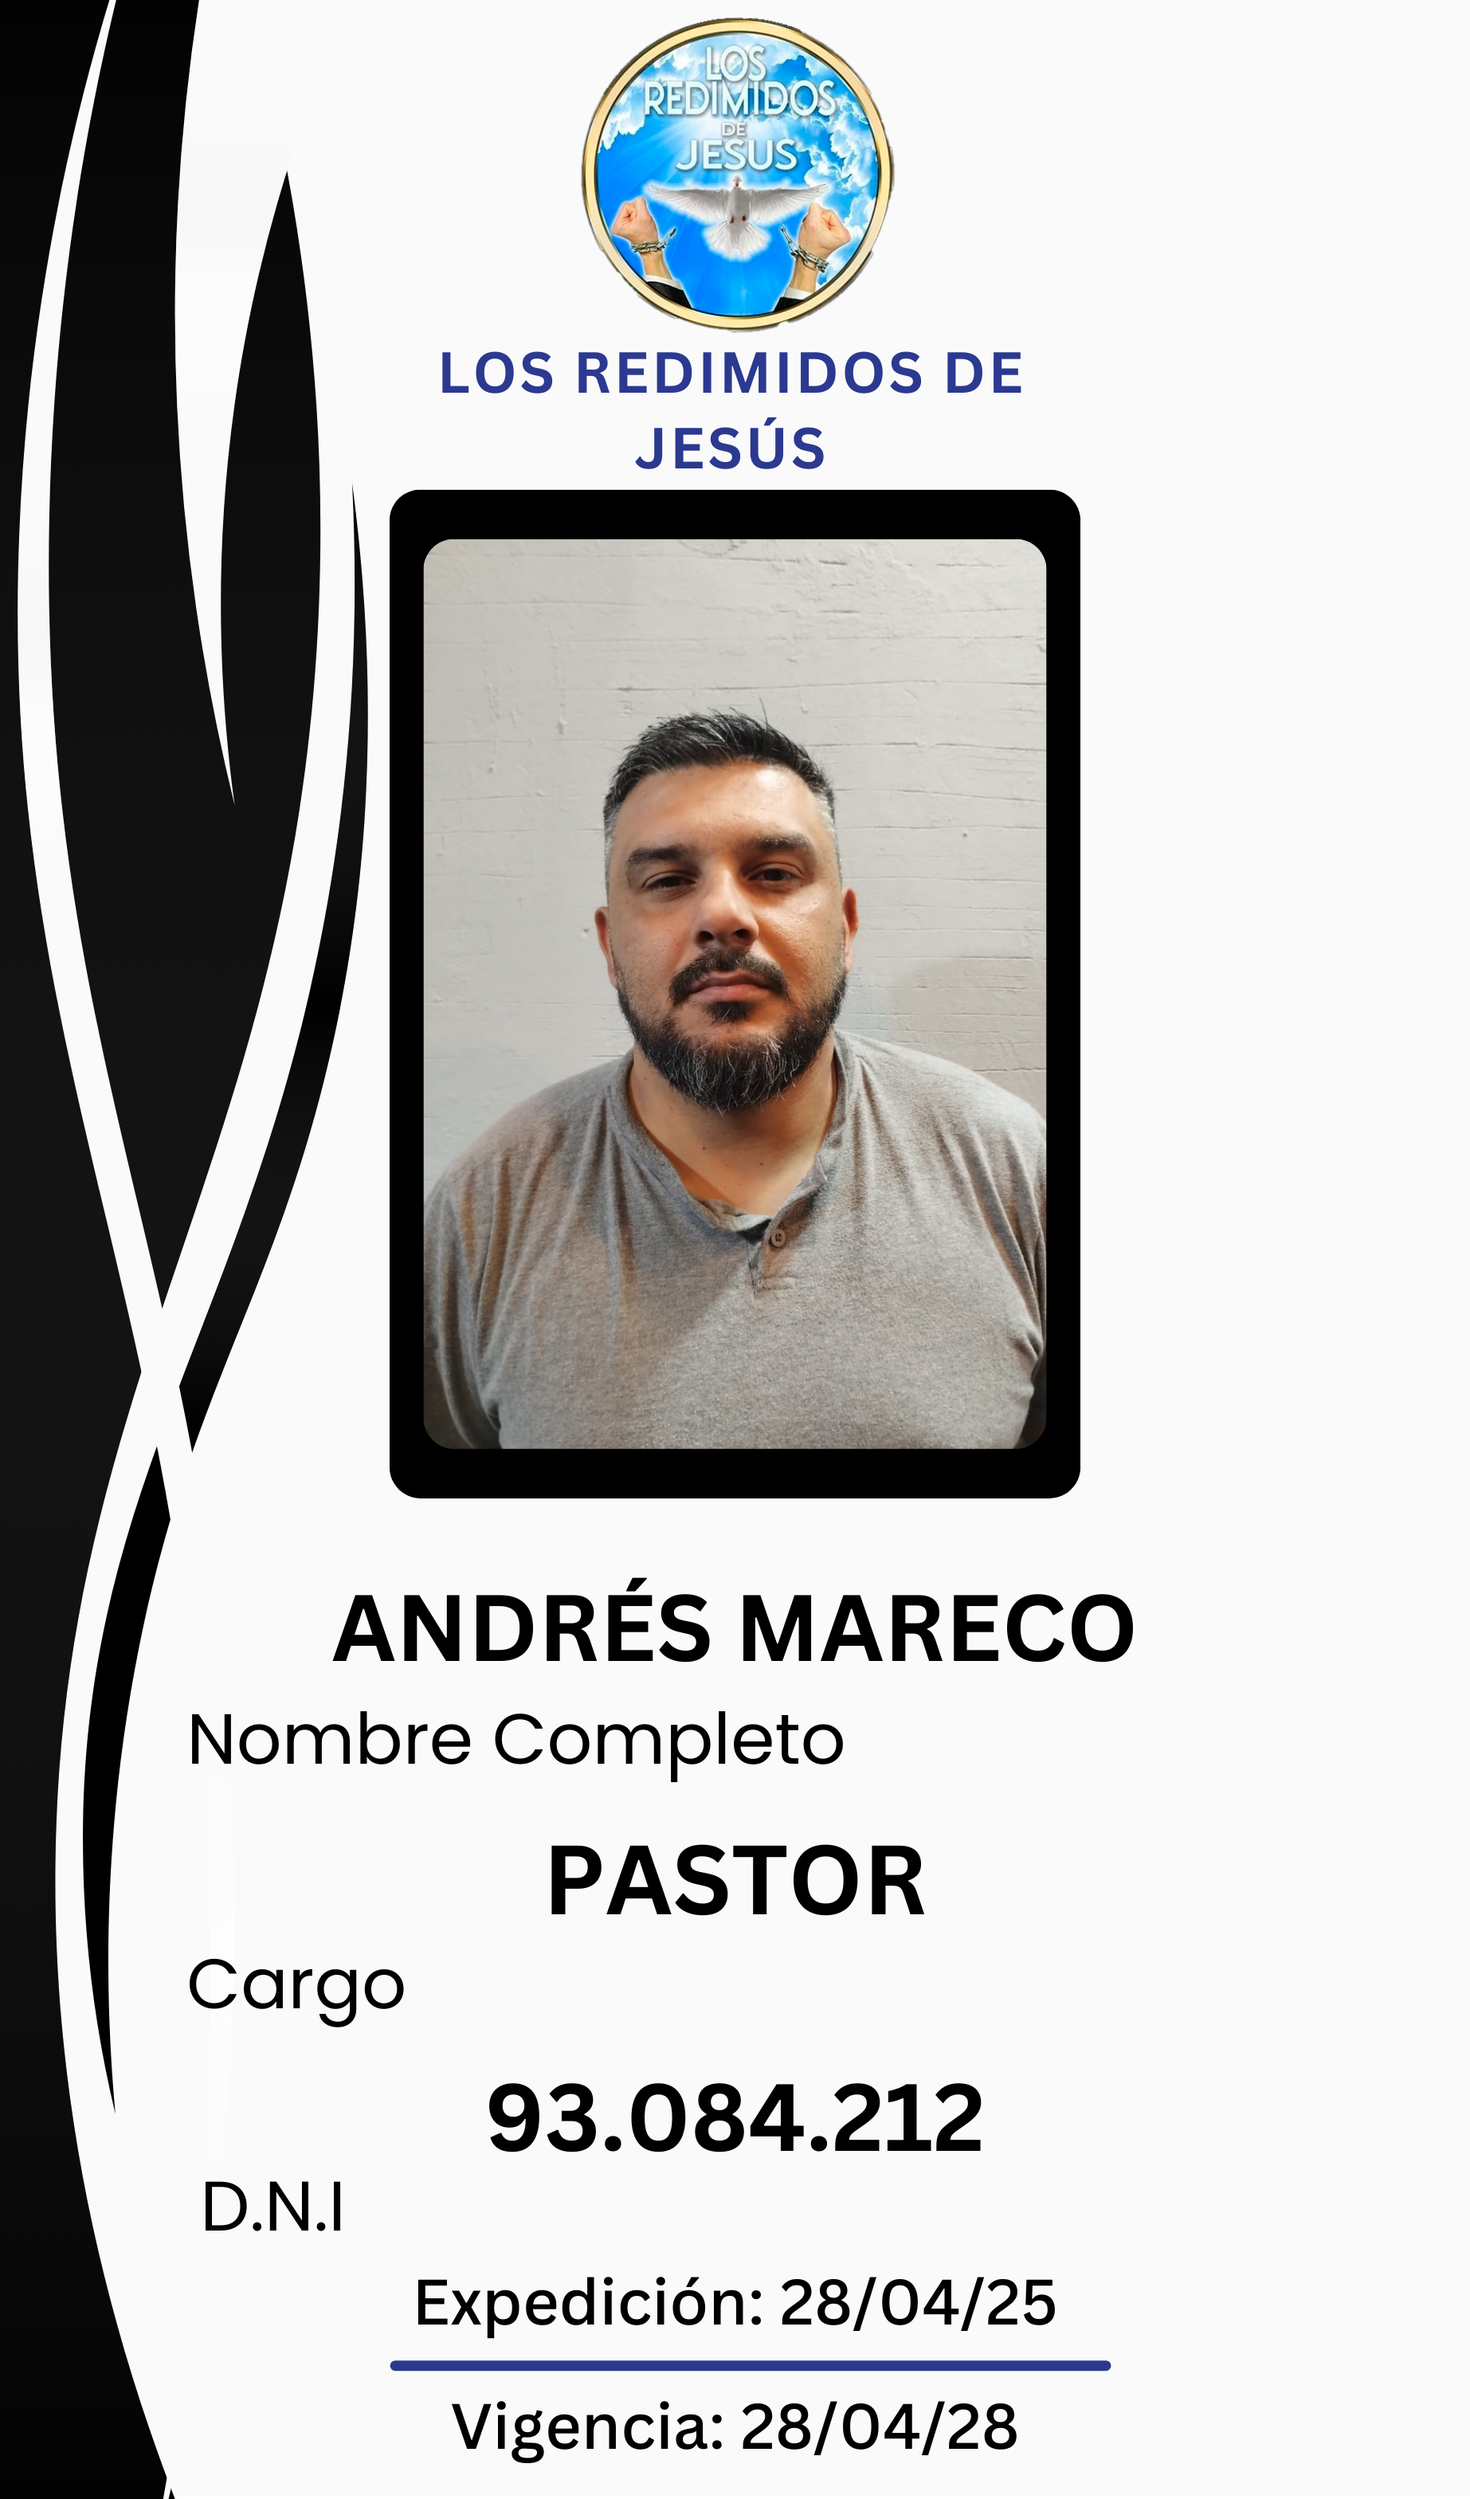
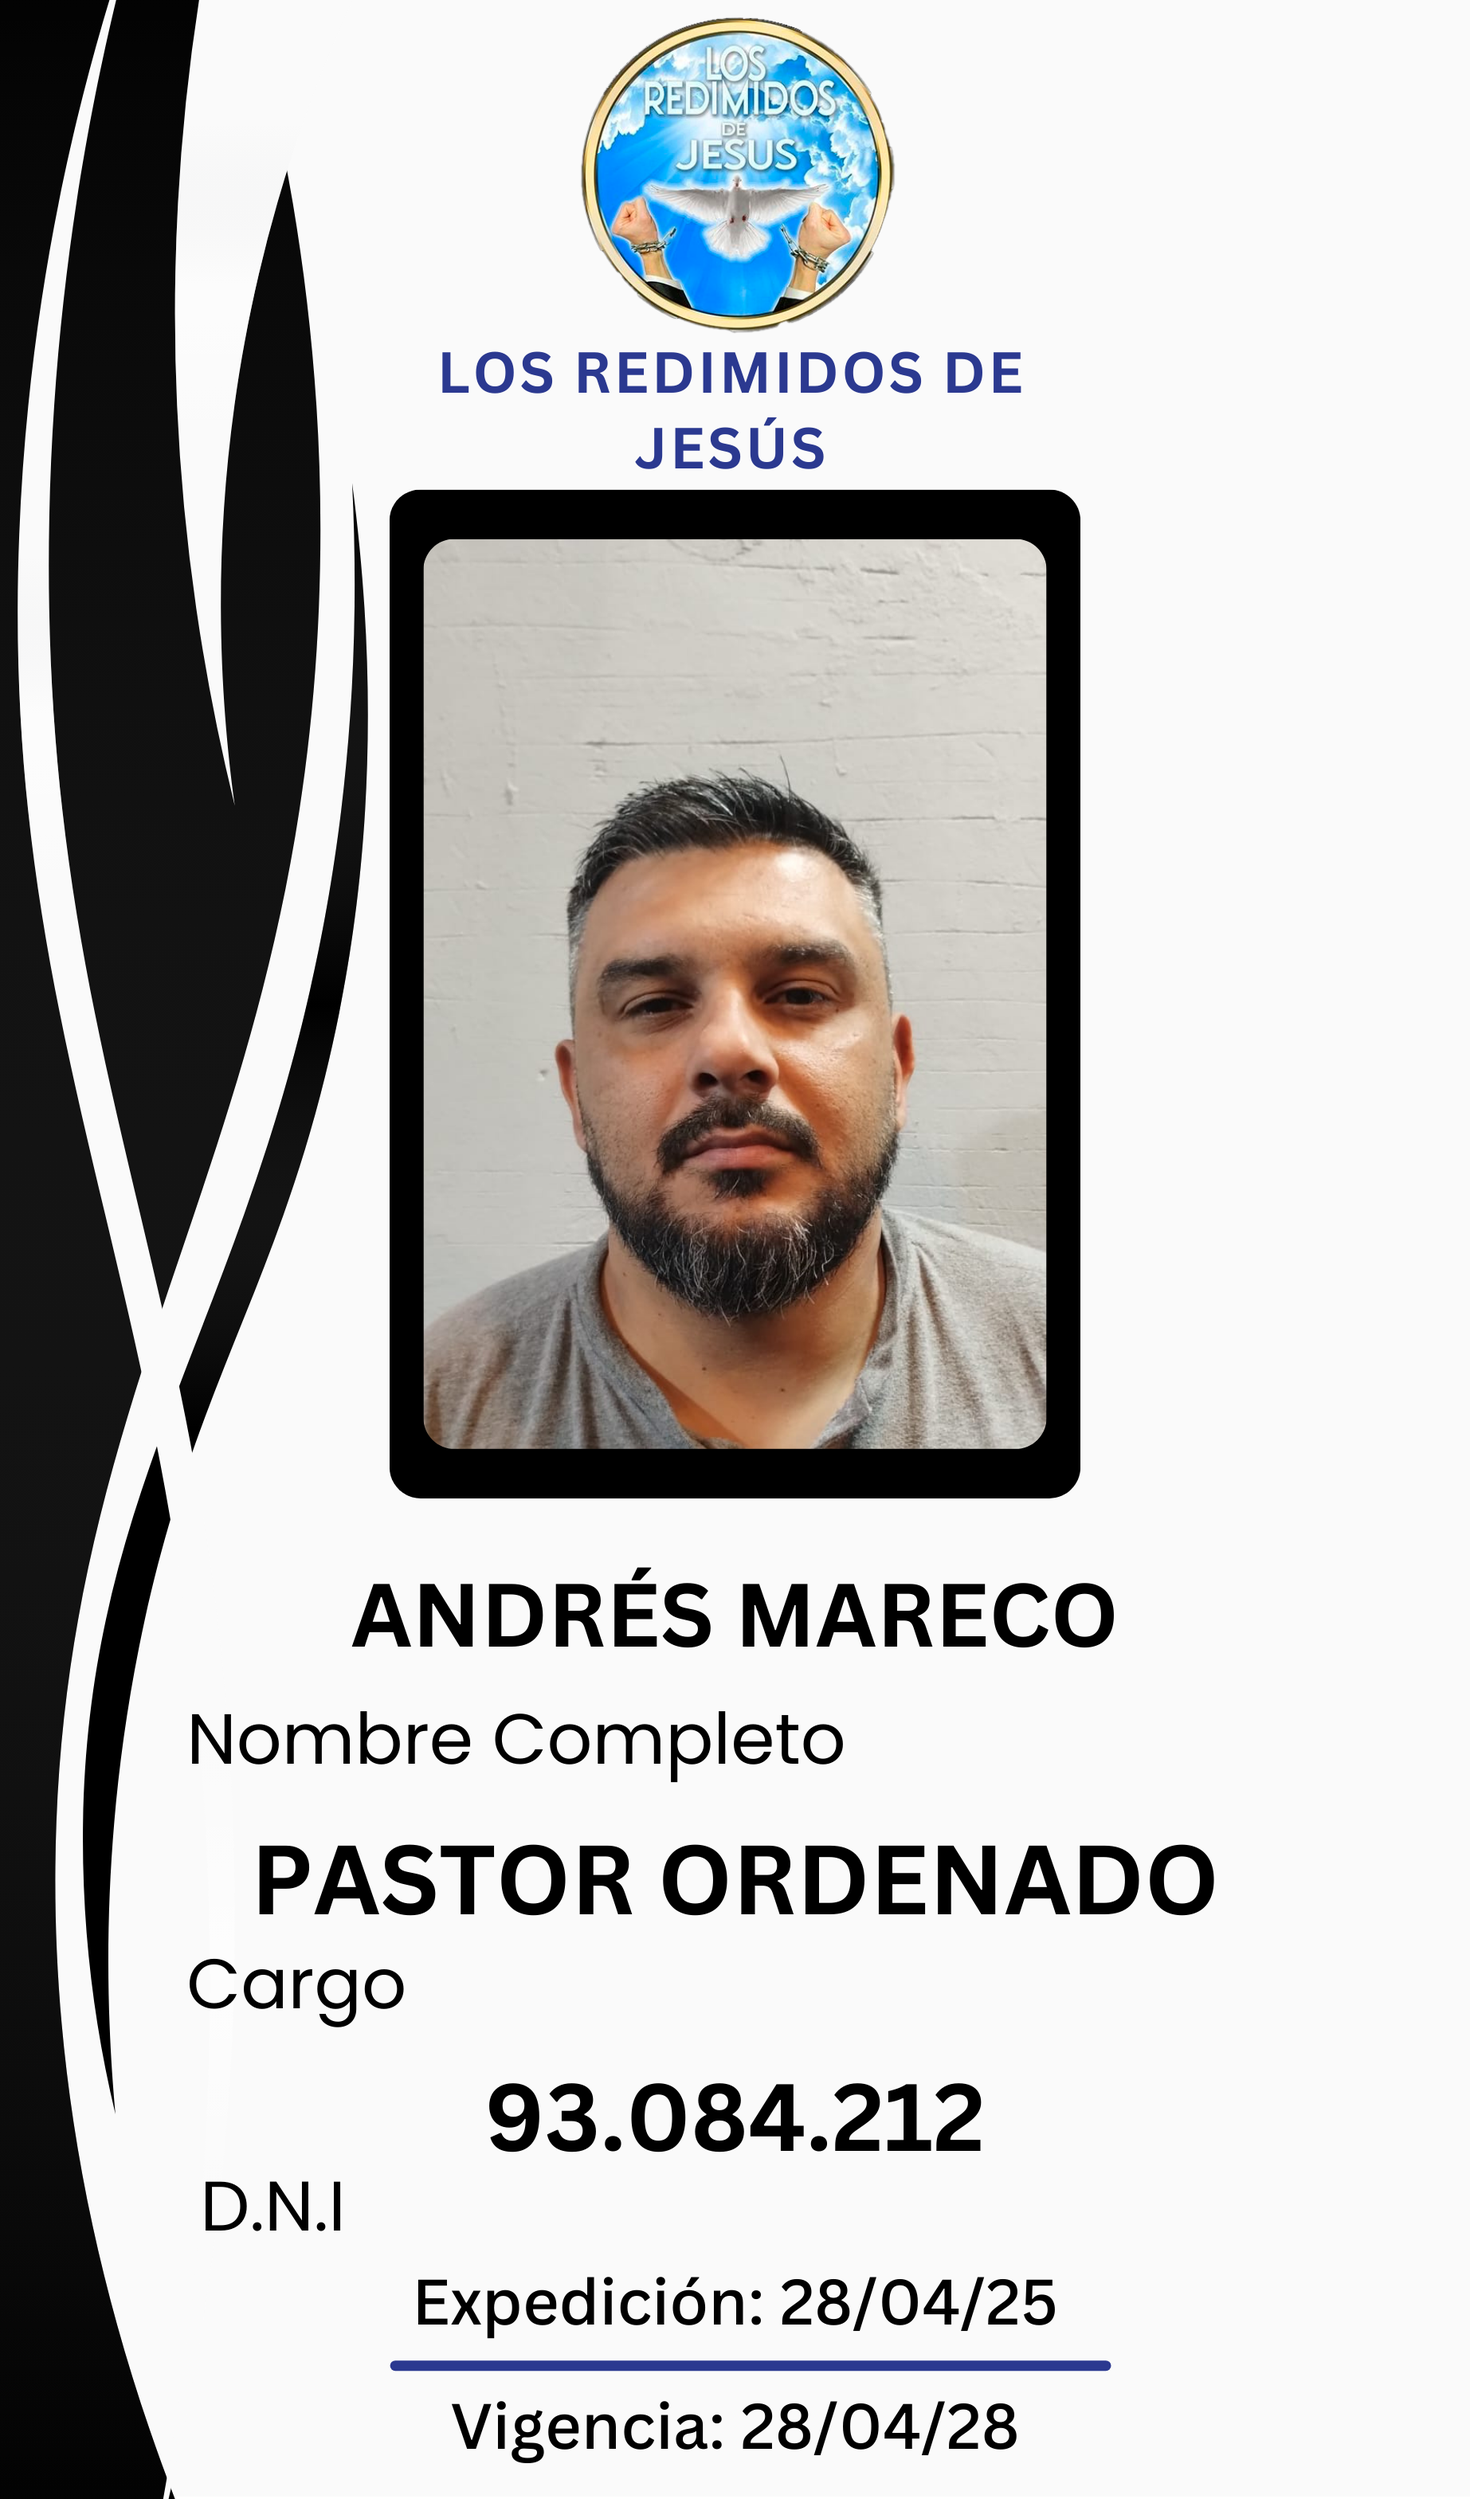
modificaciones

Changed region(s): [[0.278, 0.2812, 0.7106, 0.5936], [0.1545, 0.7185, 0.8341, 0.781], [0.2163, 0.6248, 0.7724, 0.6873]]

diff --git a/searchengine.html b/searchengine.html
@@ -113,7 +113,7 @@
                 frontImage: 'image/jose1.png',
                 backImage: 'image/ramona2.png',
                 title: 'Jose Reinerio Gomez',
-                title2: 'Pastor',
+                title2: 'Pastor de Obra',
             },
             {
                 id: 7,
@@ -177,7 +177,7 @@
                 frontImage: 'image/andres1.png',
                 backImage: 'image/andres2.png',
                 title: 'Andrés Mareco',
-                title2: 'Pastor',
+                title2: 'Pastor Ordenado',
             },
             {
                 id: 15,
